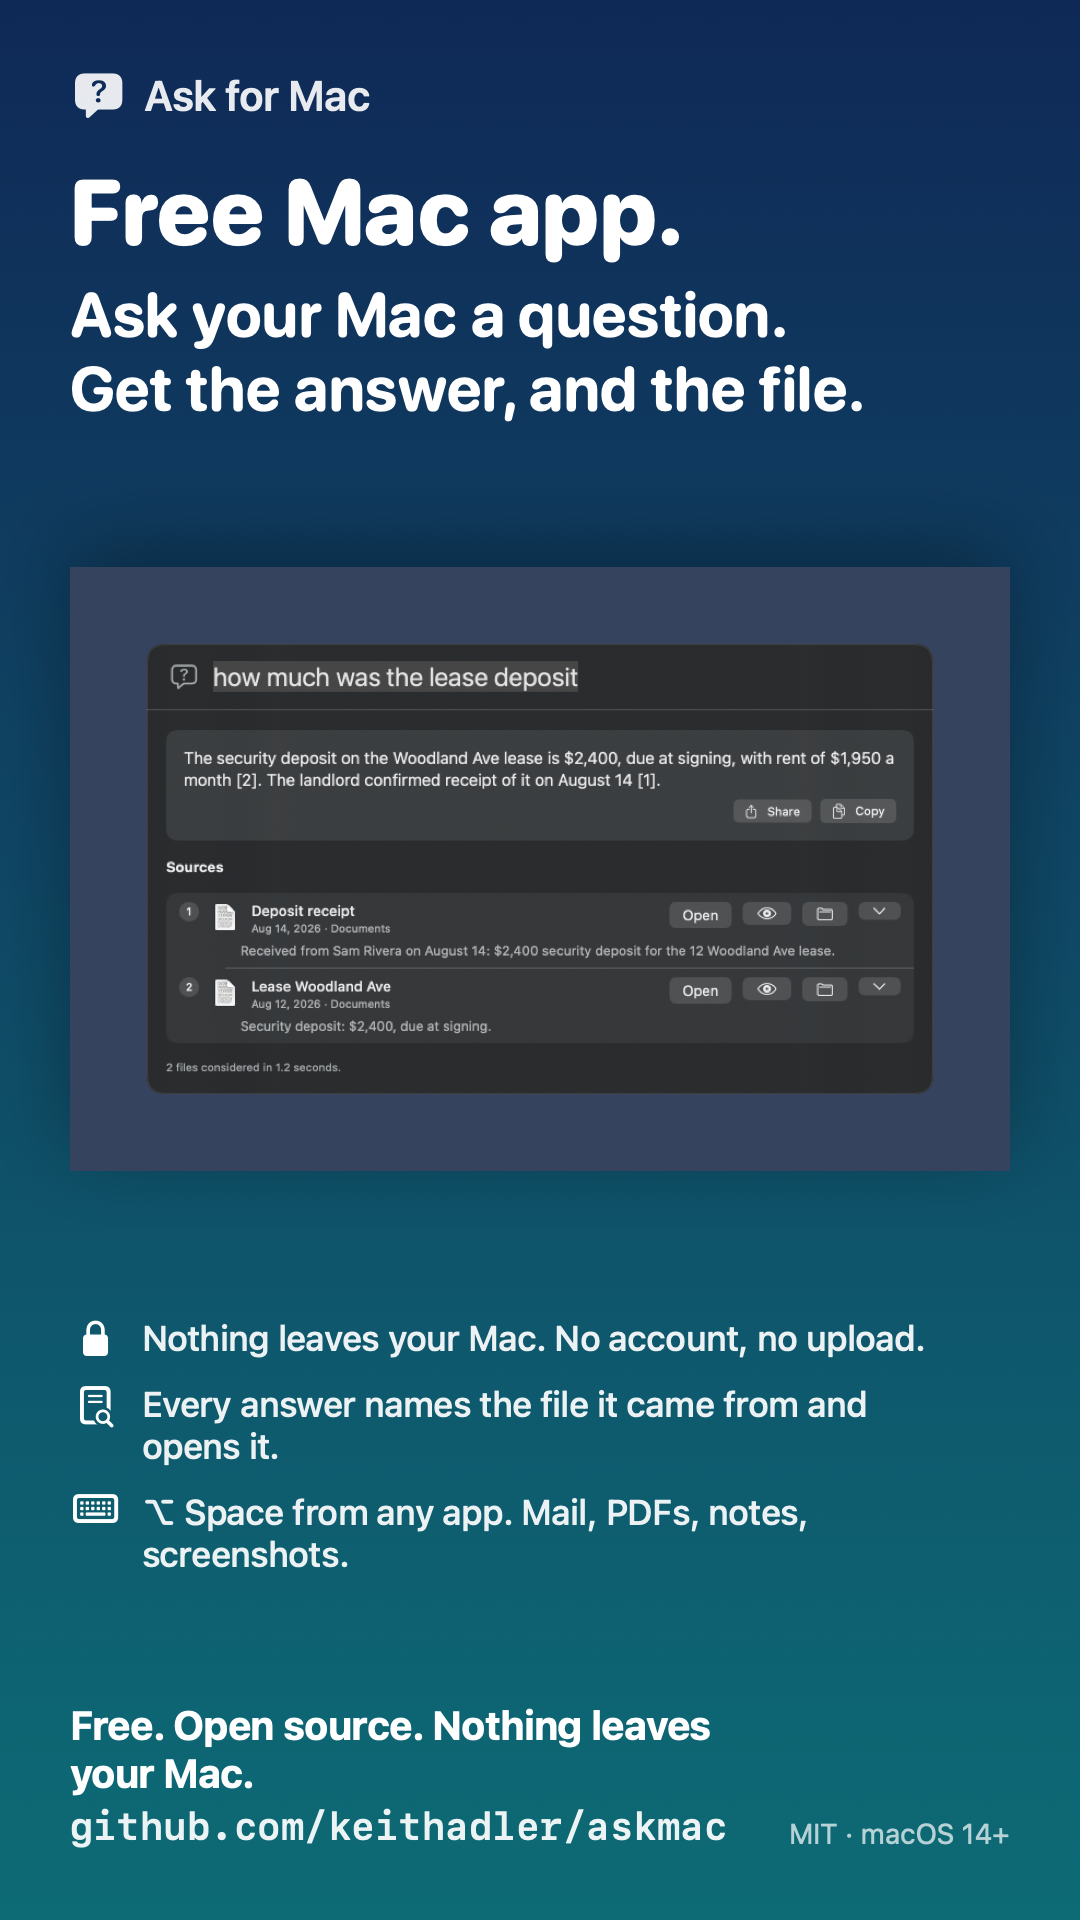
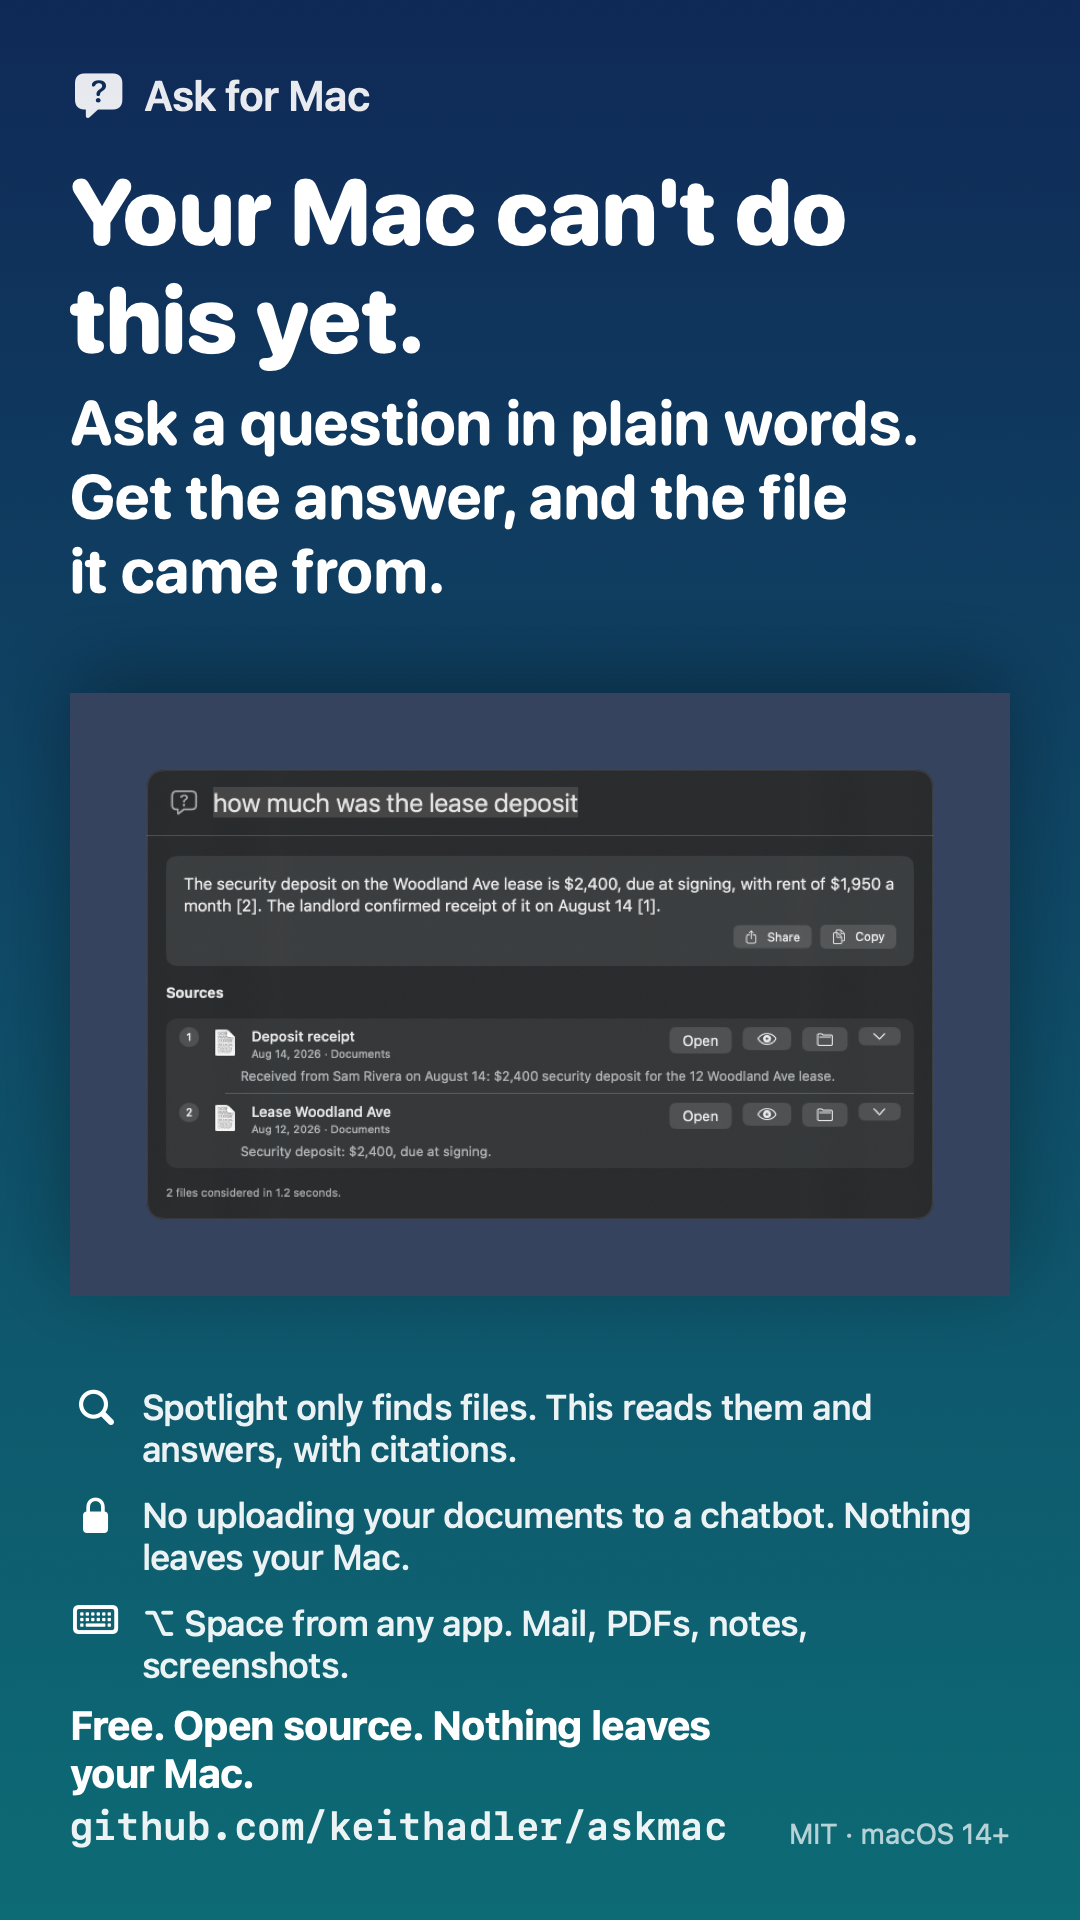
Say that the Mac cannot do this on its own

Changed region(s): [[0.0611, 0.0938, 0.9472, 0.875]]

diff --git a/docs/announcement.html b/docs/announcement.html
@@ -13,7 +13,7 @@
   code { font:15px ui-monospace,"SF Mono",Menlo,monospace; background:var(--card); padding:2px 6px; border-radius:6px; } .small { color:var(--muted); font-size:15px; }
 </style></head><body><main>
 <h1>Ask your Mac a question.<br>Get the answer, and the file.</h1>
-<p class="lead">Your documents, downloads, iCloud Drive and mail, read on this Mac. Every answer names its source and opens it. Nothing leaves the Mac.</p>
+<p class="lead">Your Mac cannot do this on its own: Spotlight finds files but does not read them, Siri does not answer from your documents, and a chatbot wants them uploaded first. Ask for Mac reads your documents, downloads, iCloud Drive and mail on this Mac, answers with citations, and uploads nothing.</p>
 <p><a class="btn" href="https://github.com/keithadler/askmac/releases/latest">Download for macOS</a> &nbsp; <span class="small">Free. Open source. macOS 14 or later; written answers on macOS 26 with Apple Intelligence.</span></p>
 <img src="screenshots/panel-answer.png" alt="An answer with two cited sources">
 <h2>How it works</h2>

diff --git a/README.md b/README.md
@@ -4,6 +4,8 @@ Ask your Mac a question in your own words. Get the answer, and the file it came 
 
 "how much was the lease deposit" → *The security deposit on the Woodland Ave lease is $2,400, due at signing [1].* with the lease one click away.
 
+Your Mac cannot do this on its own. Spotlight finds files but does not read them for you. Siri does not answer from your documents. A chatbot will, but only after you upload the documents to someone else's computer. Ask for Mac reads the files on your Mac, answers with citations, and uploads nothing.
+
 ## Download
 
 **[Download Ask-for-Mac-1.0.0.dmg](https://github.com/keithadler/askmac/releases/latest/download/Ask-for-Mac-1.0.0.dmg)** (macOS 14 or later, Apple Silicon and Intel; written answers need macOS 26 with Apple Intelligence)
